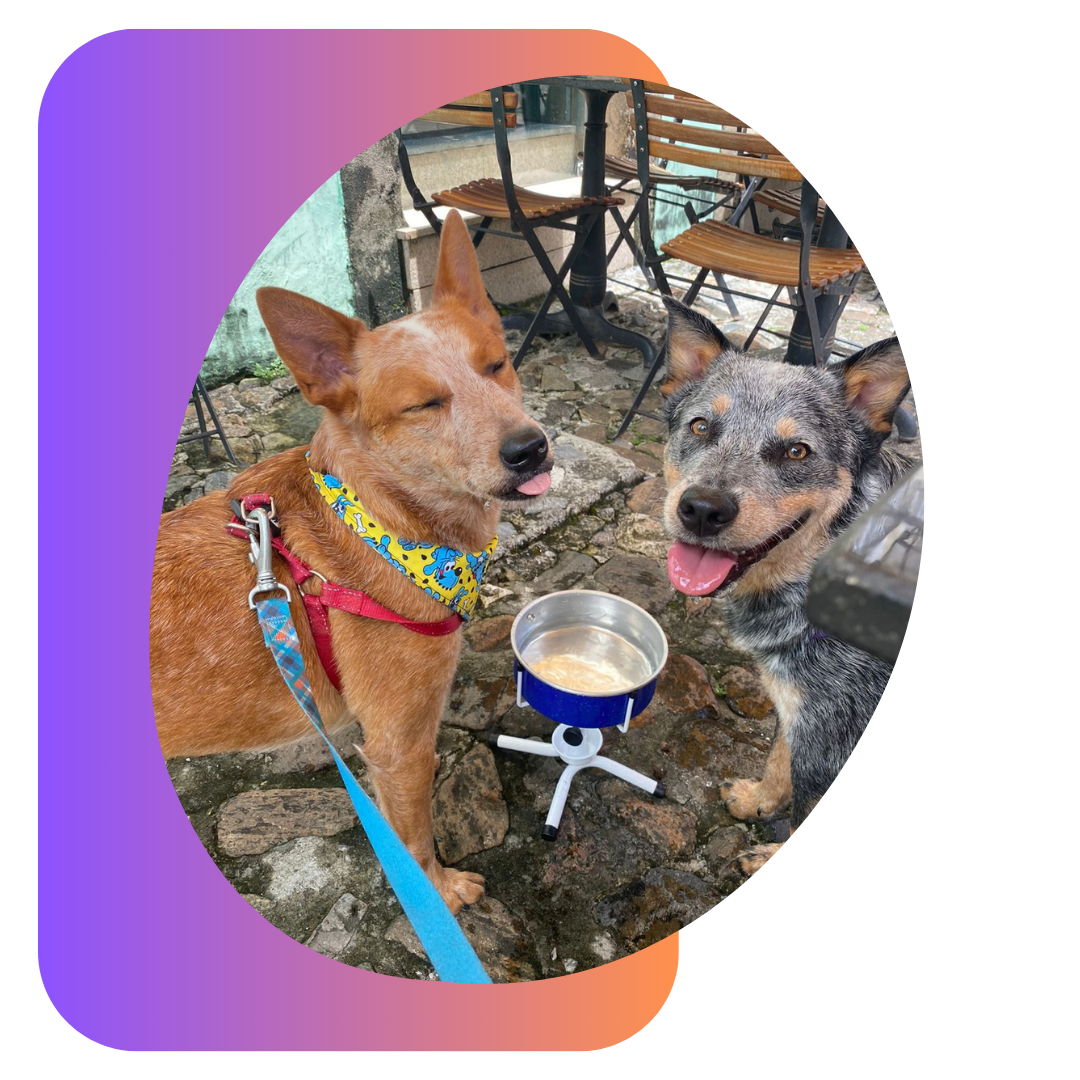
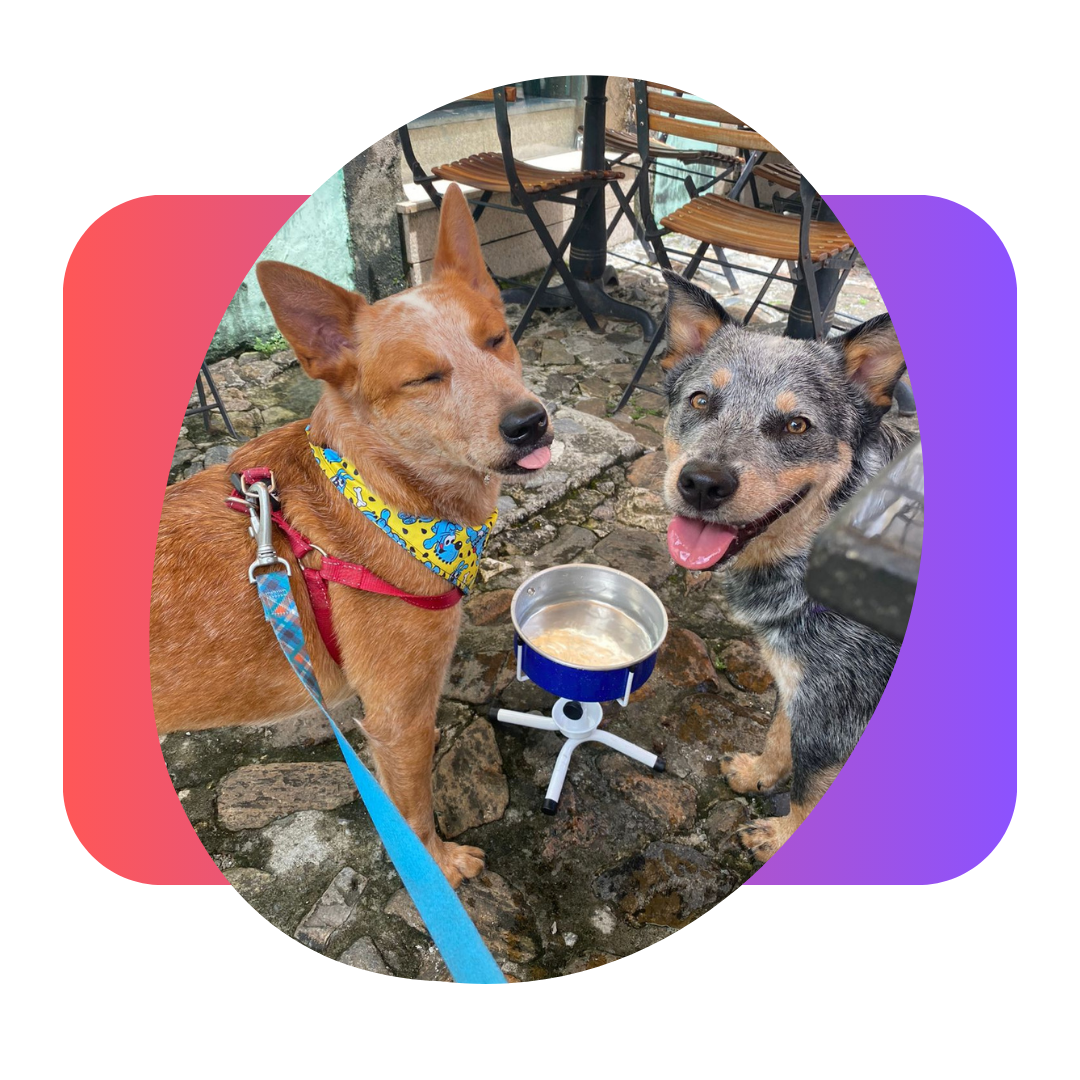
upload

diff --git a/style.css b/style.css
@@ -9,11 +9,104 @@ body {
     font-family: 'Segoe UI', Tahoma, Geneva, Verdana, sans-serif;
 }
 
-/*
-nav{}
-*/
+/* Estilo base */
+body {
+    margin: 0;
+    font-family: Arial, sans-serif;
+}
 
-header {
+.navbar {
+    display: flex;
+    justify-content: space-between;
+    align-items: center;
+    padding: 10px 20px;
+    background-color: #ffffff;
+    color: #000000;
+}
+
+.logo img {
+    height: 50px;
+}
+
+.hamburger {
+    display: none;
+    /* Esconde no desktop */
+    flex-direction: column;
+    justify-content: space-between;
+    width: 25px;
+    height: 20px;
+    background: none;
+    border: none;
+    cursor: pointer;
+    color:
+}
+
+.hamburger span {
+    display: block;
+    height: 3px;
+    background: #8511b4;
+    border-radius: 2px;
+}
+
+/* Menu */
+.menu {
+    display: flex;
+}
+
+.menu ul {
+    display: flex;
+    list-style: none;
+    padding: 0;
+    margin: 0;
+}
+
+.menu li {
+    margin-left: 20px;
+}
+
+.menu a {
+    color: rgb(0, 0, 0);
+    text-decoration: none;
+}
+
+.menu a:hover {
+    text-decoration: underline;
+}
+
+/* Estilo para mobile */
+@media (max-width: 768px) {
+    .menu {
+        display: none;
+
+        position: absolute;
+        top: 60px;
+        right: 0;
+        background-color: #8511b4;
+        flex-direction: column;
+        width: 100%;
+        padding: 20px;
+    }
+
+    .menu.active {
+        display: flex;
+
+    }
+
+    .menu ul {
+        flex-direction: column;
+    }
+
+    .menu li {
+        margin: 10px 0;
+    }
+
+    .hamburger {
+        display: flex;
+
+    }
+}
+
+.container-macro {
     display: flex;
     justify-content: center;
     align-items: center;
@@ -80,16 +173,18 @@ header {
 }
 
 .image-box {
-    display: flex;
-    flex-direction: column;
-    justify-content: center;
-    align-items: center;
-    width: 100%;
     margin-top: 5%;
+    width: 80%;
+    height: 100vh;
     overflow: hidden;
+    position: relative;
+
 }
 
 .image-box img {
-    width: 80%;
+    width: 100%;
+    height: 100%;
     object-fit: cover;
+    position: absolute;
+
 }

diff --git a/index.html b/index.html
@@ -9,21 +9,41 @@
 </head>
 
 <body>
-    <nav>
 
-    </nav>
-    <header>
+    <header class="navbar">
+        <div class="logo">
+            <img src="./logo.png" alt="Logo">
+        </div>
+        <button class="hamburger" aria-label="Menu">
+            <span></span>
+            <span></span>
+            <span></span>
+        </button>
+        <nav class="menu">
+            <ul>
+                <li><a href="#">Home</a></li>
+                <li><a href="#">Sobre</a></li>
+                <li><a href="#">Serviços</a></li>
+                <li><a href="#">Contato</a></li>
+            </ul>
+        </nav>
+    </header>
+
+    <section class="container-macro">
         <div class="title-box">
             <h1>Seu site, nossa criação, seu sucesso!</h1>
-            <p>No Studio Heeler, cada site é uma obra única, desenvolvida com dedicação e criatividade. Nossa missão é
-                transformar suas ideias em soluções digitais eficazes, elevando sua presença online e conectando você ao
+            <p>No Studio Heeler, cada site é uma obra única, desenvolvida com dedicação e criatividade. Nossa missão
+                é
+                transformar suas ideias em soluções digitais eficazes, elevando sua presença online e conectando
+                você ao
                 seu público.</p>
             <button class="btn-contato">Solicite orçamento</button>
         </div>
         <div class="image-box">
             <img src="./foto1.png" alt="">
         </div>
-    </header>
+    </section>
+    <script src="engine.js"></script>
 </body>
 
 </html>

diff --git a/engine.js b/engine.js
@@ -1,0 +1,6 @@
+const hamburger = document.querySelector('.hamburger');
+const menu = document.querySelector('.menu');
+
+hamburger.addEventListener('click', () => {
+    menu.classList.toggle('active');
+});
